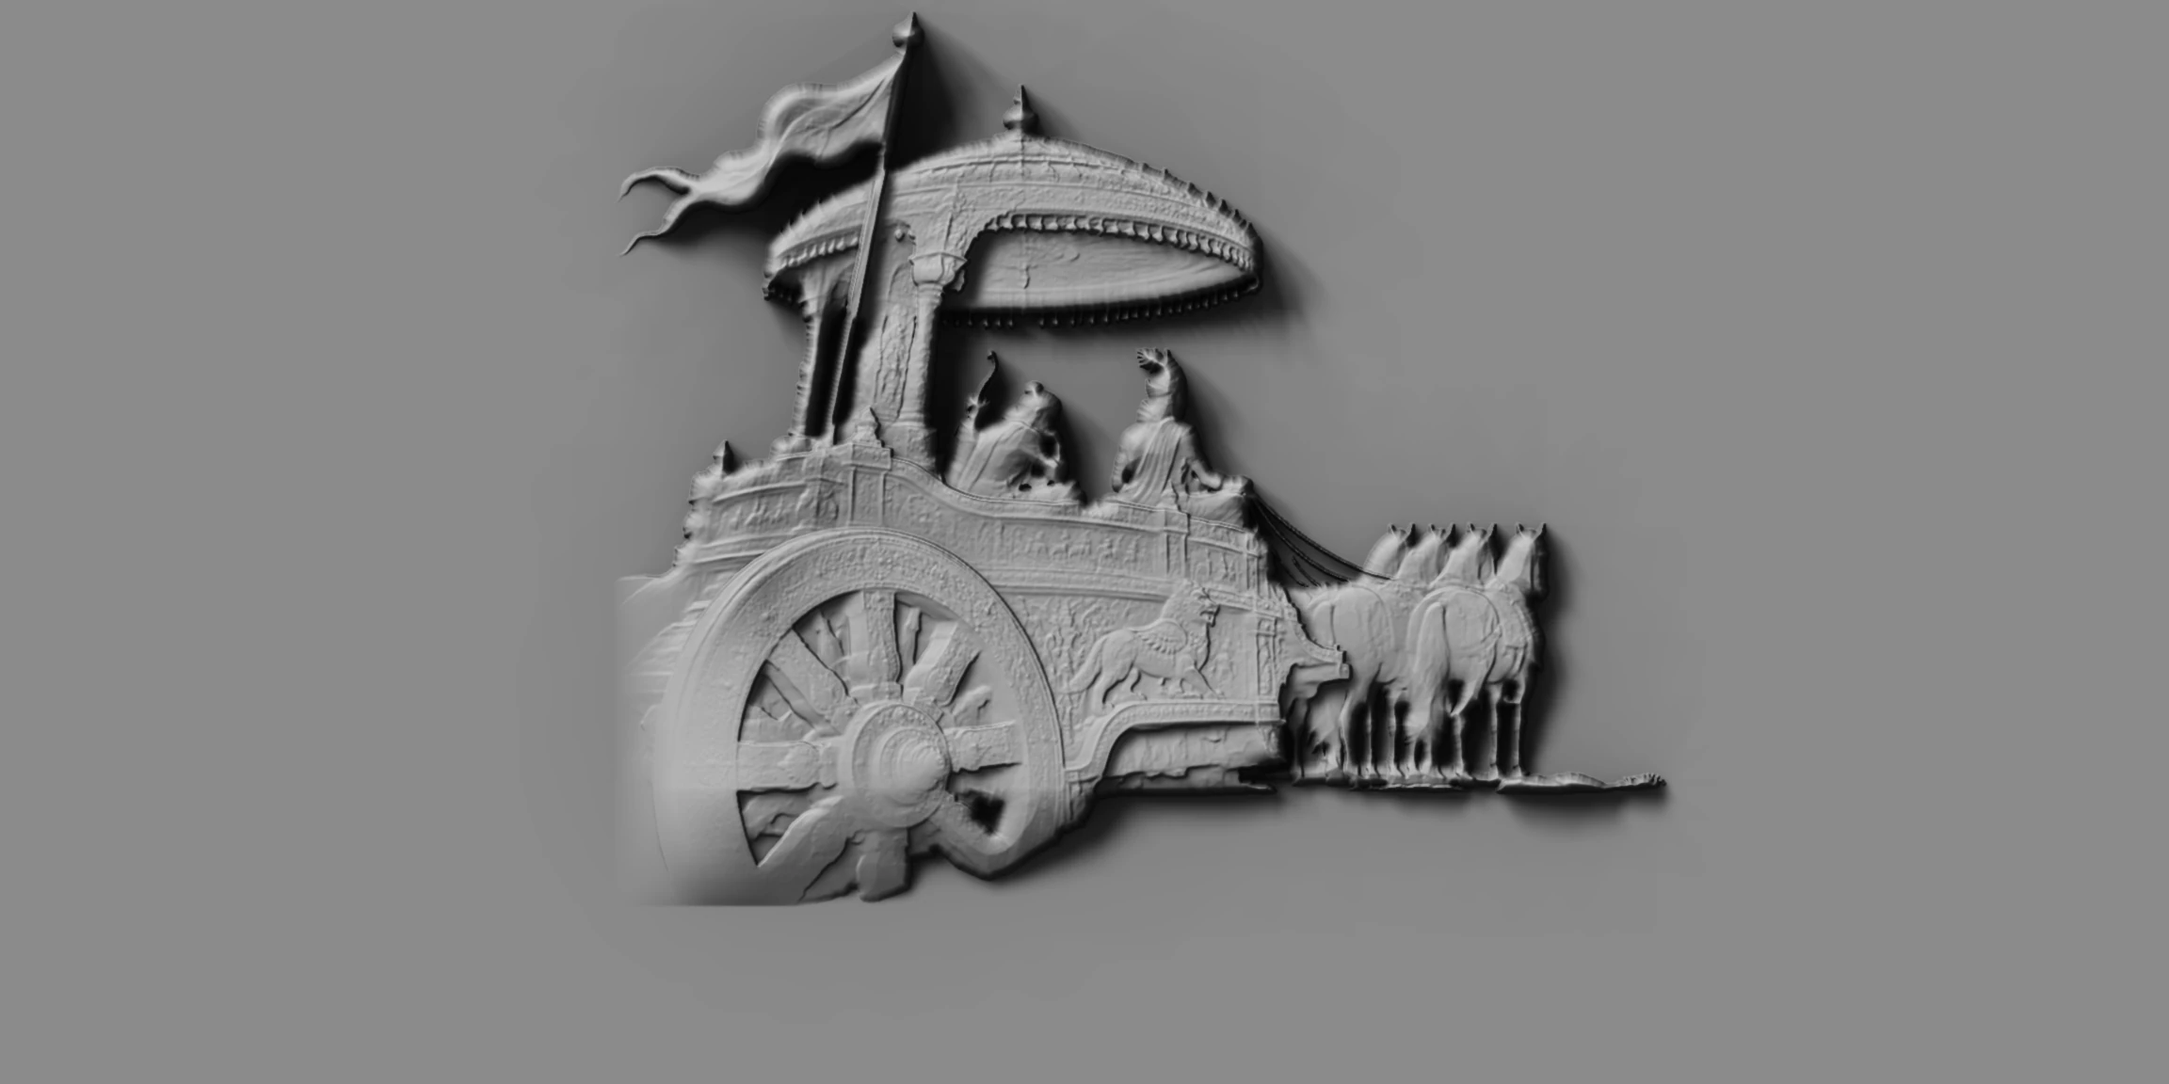
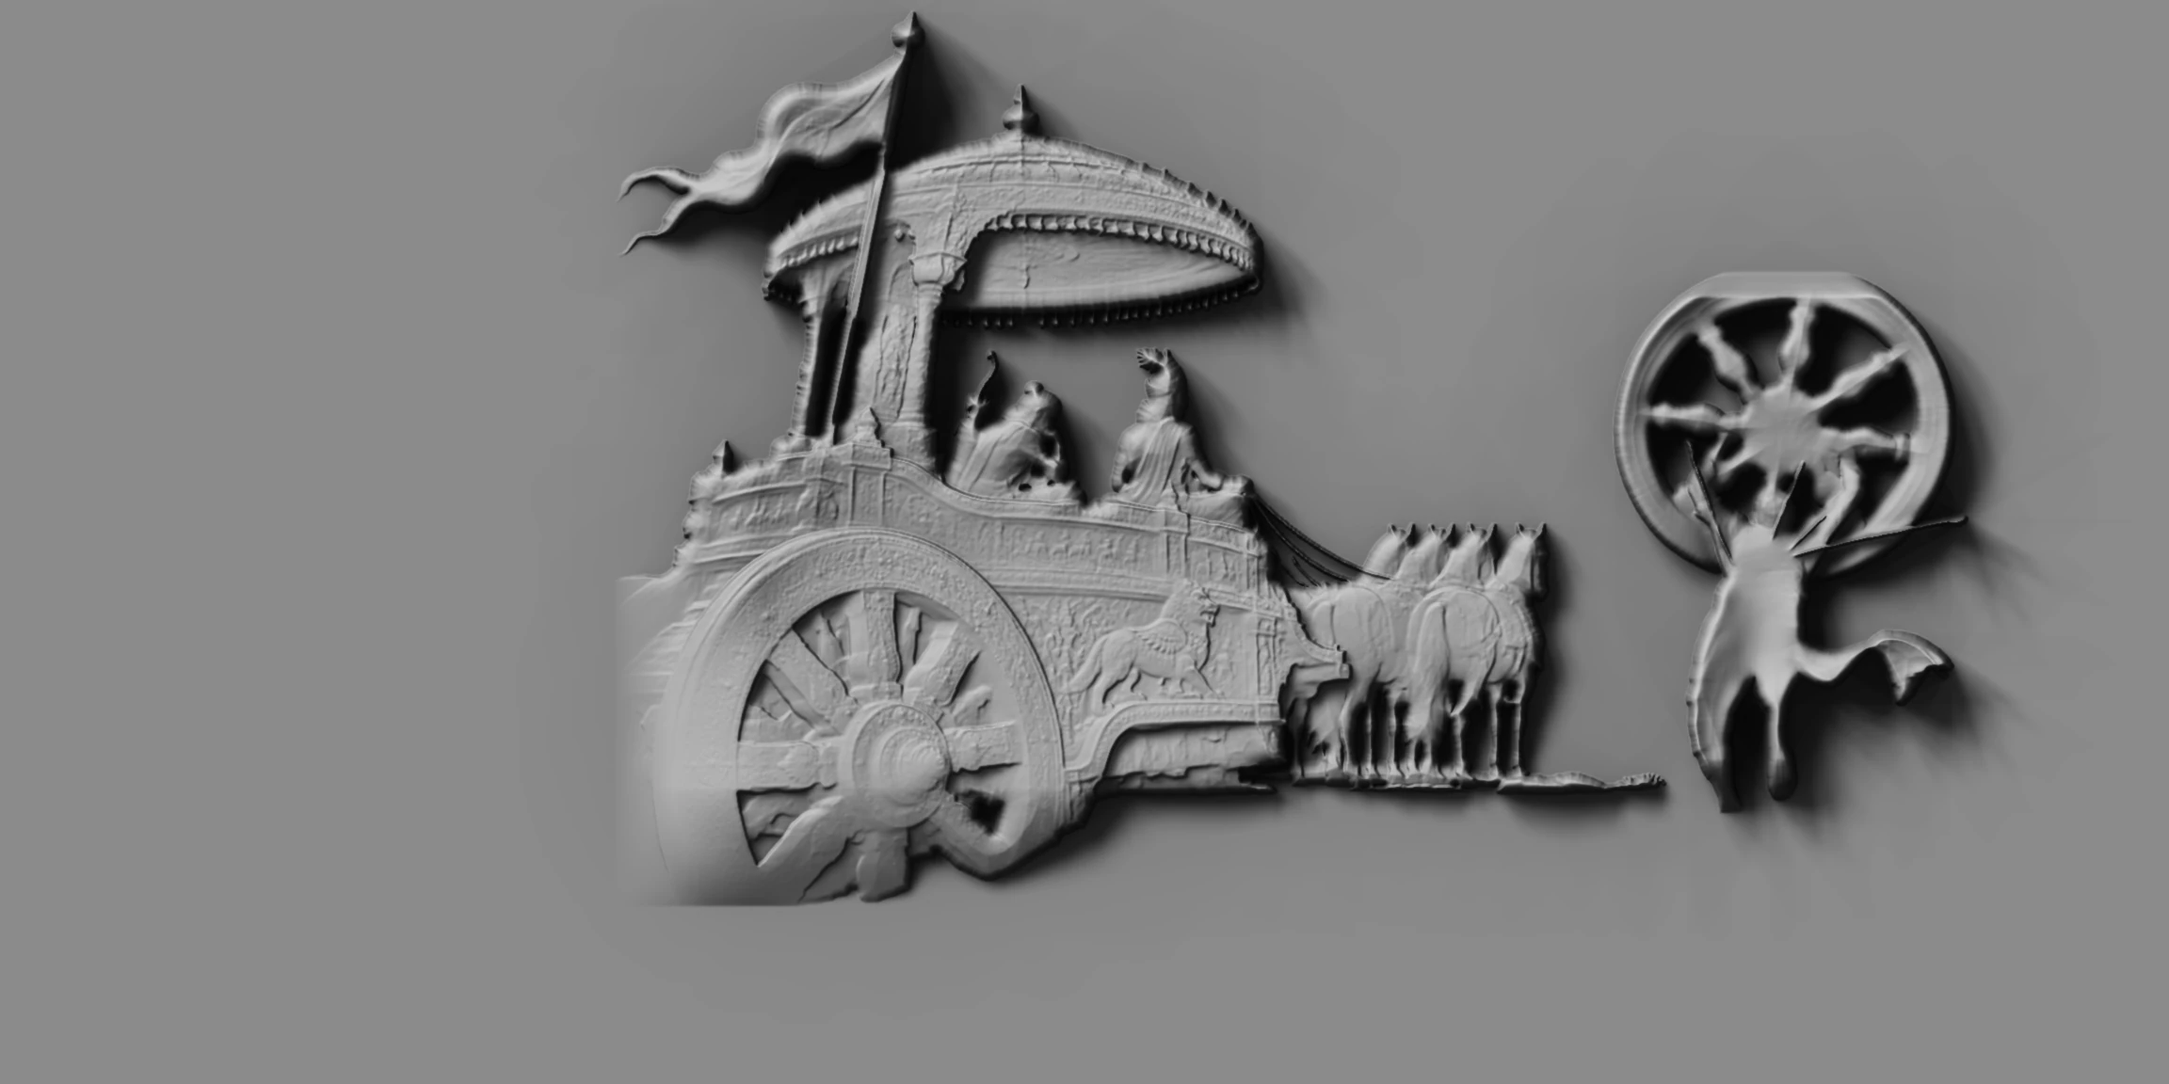
Add a second relief element from supplied footage; manifest-driven wall
The relief build now reads scripts/relief/elements.json and composes any
number of sculptures onto the wall. Depth maps are stored as 16-bit PNGs in
docs/relief-sources so the wall rebuilds without the depth model. Adds the
wheel-bearer beside the chariot. Handoff records the owner's decisions on
footage use and image-generation access.

Claude-Session: https://claude.ai/code/session_01M2PHidNBjDG1gMyYGSp28o

Changed region(s): [[0.75, 0.25, 0.9375, 0.7812]]

diff --git a/scripts/relief/build_relief.py b/scripts/relief/build_relief.py
@@ -1,7 +1,9 @@
-"""Turn an estimated depth map of the original Kurukṣetra artwork into the
-bas-relief data the opening wall renders.
+"""Turn estimated depth maps into the bas-relief data the opening wall renders.
 
-Usage: python3 scripts/relief/build_relief.py DEPTH.npy ARTWORK.png OUT_DIR [PREVIEW.png]
+Usage: python3 scripts/relief/build_relief.py scripts/relief/elements.json OUT_DIR [PREVIEW.png]
+
+The manifest lists each sculpture: its 16-bit depth map, a luminance image for
+fine carving, how to separate it from its scene, and where it sits on the wall.
 
 Writes into OUT_DIR:
   kurukshetra-height.png   R,G = 16-bit height (hi, lo), half resolution
@@ -9,8 +11,8 @@ Writes into OUT_DIR:
   plaster.webp            tileable mineral texture (G is sampled)
   noise.png               tileable smooth noise used by the reveal field
 
-Everything is derived from this project's own generated artwork. No reference
-site model, texture or film frame is used.
+Sources are the project's generated artwork and frames from footage the
+project owner supplied. No reference-site model or texture is used.
 """
 
 import sys
@@ -18,10 +20,15 @@ import numpy as np
 import cv2
 from PIL import Image
 
-depth_path, art_path, out_dir = sys.argv[1:4]
-preview_path = sys.argv[4] if len(sys.argv) > 4 else None
+import json
+import os
 
-W, H = 2304, 1152  # wall canvas, 2:1
+manifest_path, out_dir = sys.argv[1:3]
+preview_path = sys.argv[3] if len(sys.argv) > 3 else None
+manifest = json.load(open(manifest_path))
+root = os.path.dirname(os.path.dirname(os.path.dirname(os.path.abspath(manifest_path))))
+
+W, H = manifest["wall"]  # wall canvas, 2:1
 LIGHT = np.array([-0.55, 0.62])  # direction toward the light in wall space (x right, y up)
 LIGHT /= np.linalg.norm(LIGHT)
 
@@ -30,68 +37,87 @@ def blur(a, s):
     return cv2.GaussianBlur(a, (0, 0), s, borderType=cv2.BORDER_REFLECT)
 
 
-# --- 1. subject separation -------------------------------------------------
-d = np.load(depth_path).astype(np.float32)
-d = np.clip(d, 0, None)
-h0, w0 = d.shape
-art = np.asarray(Image.open(art_path).convert("L"), np.float32) / 255
+def sculpt(spec):
+    """One element: separate the subject from its scene and model it as relief."""
+    # --- subject separation
+    d = cv2.imread(os.path.join(root, spec["depth"]), cv2.IMREAD_UNCHANGED).astype(np.float32)
+    d = d / d.max() * 400
+    h0, w0 = d.shape
+    art = Image.open(os.path.join(root, spec["luma"])).convert("L").resize((w0, h0), Image.LANCZOS)
+    art = np.asarray(art, np.float32) / 255
+    if spec["separation"] == "ground":
+        # The ground plane's inverse depth grows towards the bottom of the
+        # frame. Estimate it per row from the right-hand fifth, where only
+        # terrain is visible, then keep what stands clearly in front of it.
+        ground_row = np.median(d[:, int(w0 * 0.80) :], axis=1)
+        ground_row = np.maximum.accumulate(blur(ground_row[:, None], 9)[:, 0])
+        ground = ground_row[:, None] * np.ones((1, w0), np.float32)
+        mask = np.clip((d - ground * 1.06 - 16) / 14, 0, 1)
+    else:
+        # A figure against open sky: everything nearer than the haze.
+        level = spec["threshold"] * 400
+        mask = np.clip((d - level) / 14, 0, 1)
+    # Drop small disconnected islands (distant banners, debris, terrain bumps).
+    n, labels, stats, _ = cv2.connectedComponentsWithStats((mask > 0.5).astype(np.uint8), 8)
+    keep = np.zeros_like(mask)
+    largest = max(stats[i, cv2.CC_STAT_AREA] for i in range(1, n))
+    floor = 2500 if spec["separation"] == "ground" else largest * 0.5
+    for i in range(1, n):
+        if stats[i, cv2.CC_STAT_AREA] >= floor:
+            keep[labels == i] = 1
+    mask = mask * cv2.dilate(keep, np.ones((5, 5), np.uint8))
+    # Let the sculpture sink back into the wall where the source frame cuts
+    # it, instead of ending on a hard edge.
+    yy = np.linspace(0, 1, h0, dtype=np.float32)[:, None]
+    start, span = spec["sink"]["bottom"]
+    sink = 1 - np.clip((yy - start) / span, 0, 1) ** 1.5
+    if spec["sink"].get("top", 0) > 0:
+        top = np.clip(yy / spec["sink"]["top"], 0, 1)
+        sink = sink * top * top * (3 - 2 * top)
+    if spec["sink"]["left"] > 0:
+        xx = np.linspace(0, 1, w0, dtype=np.float32)[None, :]
+        left = np.clip((xx - 0.005) / spec["sink"]["left"], 0, 1)
+        sink = sink * left * left * (3 - 2 * left)
 
-# The ground plane's inverse depth grows towards the bottom of the frame.
-# Estimate it per row from the right-hand third, where only terrain is visible,
-# then keep what stands clearly in front of that plane.
-ground_row = np.median(d[:, int(w0 * 0.80) :], axis=1)
-ground_row = np.maximum.accumulate(blur(ground_row[:, None], 9)[:, 0])
-ground = ground_row[:, None] * np.ones((1, w0), np.float32)
-excess = d - ground * 1.06 - 16
-mask = np.clip(excess / 14, 0, 1)
-# Drop small disconnected islands (distant banners, terrain bumps).
-n, labels, stats, _ = cv2.connectedComponentsWithStats((mask > 0.5).astype(np.uint8), 8)
-keep = np.zeros_like(mask)
-for i in range(1, n):
-    if stats[i, cv2.CC_STAT_AREA] > 2500:
-        keep[labels == i] = 1
-mask = mask * cv2.dilate(keep, np.ones((5, 5), np.uint8))
-# Let the sculpture sink back into the wall along the bottom edge instead of
-# ending on a hard cut where the chariot meets the terrain.
-yy = np.linspace(0, 1, h0, dtype=np.float32)[:, None]
-sink = 1 - np.clip((yy - 0.86) / 0.13, 0, 1) ** 1.5
-xx = np.linspace(0, 1, w0, dtype=np.float32)[None, :]
-left = np.clip((xx - 0.005) / 0.11, 0, 1)
-sink = sink * left * left * (3 - 2 * left)
+    # --- bas-relief compression
+    # Relative depth keeps the big forms; local detail is amplified so
+    # carving reads at shallow depth (the classic bas-relief trade).
+    unit = 1024.0 / h0  # filter sizes were tuned on a 1024px-tall source
+    dn = d / np.percentile(d[mask > 0.5], 99.5)
+    low = blur(dn, 22 / unit)
+    mid = blur(dn, 5 / unit) - low
+    fine = dn - blur(dn, 5 / unit)
+    lum_detail = blur(art, 1.0) - blur(art, 5 / unit)
+    # Forms are inflated from their silhouettes so they turn away from the
+    # viewer at the rim like modelled plaster, not a flat plate.
+    solid = (mask > 0.5).astype(np.uint8)
+    inside_dist = cv2.distanceTransform(solid, cv2.DIST_L2, 5) * unit
+    pillow = np.sqrt(np.clip(1 - (1 - np.clip(inside_dist / 64.0, 0, 1)) ** 2, 0, 1))
+    rim = np.sqrt(np.clip(1 - (1 - np.clip(inside_dist / 9.0, 0, 1)) ** 2, 0, 1))
+    # Big volumes come from the scene's own depth at two scales, so wheel,
+    # canopy, riders and horses each swell as separate bodies.
+    body = blur(dn, 9 / unit) - blur(dn, 60 / unit)
+    form = np.clip(low, 0, 1.1) ** 0.75
+    height = (0.10 + 0.34 * pillow) * rim + rim * (0.50 * form + 1.5 * np.clip(body, -0.2, 0.4))
+    height += rim**0.5 * (2.0 * mid + 2.6 * fine + 0.10 * lum_detail)
+    soft = blur(mask, 1.2)
+    return np.clip(height, 0, None) * np.clip(soft * 1.3, 0, 1) * sink
 
-# --- 2. bas-relief compression ---------------------------------------------
-# Relative depth keeps the big forms; local detail is amplified so carving
-# reads at shallow depth (the classic bas-relief trade).
-dn = d / np.percentile(d[mask > 0.5], 99.5)
-low = blur(dn, 22)
-mid = blur(dn, 5) - low
-fine = dn - blur(dn, 5)
-lum_detail = blur(art, 1.0) - blur(art, 5)
-# Forms are inflated from their silhouettes so they turn away from the viewer
-# at the rim like modelled plaster, instead of standing up as a flat plate.
-solid = (mask > 0.5).astype(np.uint8)
-inside_dist = cv2.distanceTransform(solid, cv2.DIST_L2, 5)
-pillow = np.sqrt(np.clip(1 - (1 - np.clip(inside_dist / 64.0, 0, 1)) ** 2, 0, 1))
-rim = np.sqrt(np.clip(1 - (1 - np.clip(inside_dist / 9.0, 0, 1)) ** 2, 0, 1))
-# Big volumes come from the scene's own depth at two scales, so the wheel,
-# canopy, riders and horses each swell as separate bodies.
-body = blur(dn, 9) - blur(dn, 60)
-form = np.clip(low, 0, 1.1) ** 0.75
-height = (0.10 + 0.34 * pillow) * rim + rim * (0.50 * form + 1.5 * np.clip(body, -0.2, 0.4))
-height += rim**0.5 * (2.0 * mid + 2.6 * fine + 0.10 * lum_detail)
-soft = blur(mask, 1.2)
-height = np.clip(height, 0, None) * np.clip(soft * 1.3, 0, 1) * sink
 
-# --- 3. place on the wall --------------------------------------------------
-scale = 0.84 * H / h0
-sw, sh = int(round(w0 * scale)), int(round(h0 * scale))
-placed = cv2.resize(height, (sw, sh), interpolation=cv2.INTER_CUBIC)
+# --- place every element on the wall -----------------------------------------
 wall = np.zeros((H, W), np.float32)
-ox = int(W * 0.50 - sw * 0.35)
-oy = int(H * 0.005)
-x0, y0 = max(ox, 0), max(oy, 0)
-x1, y1 = min(ox + sw, W), min(oy + sh, H)
-wall[y0:y1, x0:x1] = placed[y0 - oy : y1 - oy, x0 - ox : x1 - ox]
+for spec in manifest["elements"]:
+    height = sculpt(spec)
+    h0, w0 = height.shape
+    scale = spec["height"] * H / h0
+    sw, sh = int(round(w0 * scale)), int(round(h0 * scale))
+    interpolation = cv2.INTER_CUBIC if scale > 1 else cv2.INTER_AREA
+    placed = cv2.resize(height / height.max() * spec["gain"], (sw, sh), interpolation=interpolation)
+    ox = int(W * spec["anchor"][0] - sw * spec["pivot"][0])
+    oy = int(H * spec["anchor"][1] - sh * spec["pivot"][1])
+    x0, y0 = max(ox, 0), max(oy, 0)
+    x1, y1 = min(ox + sw, W), min(oy + sh, H)
+    wall[y0:y1, x0:x1] = np.maximum(wall[y0:y1, x0:x1], placed[y0 - oy : y1 - oy, x0 - ox : x1 - ox])
 wall = np.clip(blur(wall, 0.7), 0, None)
 wall /= wall.max()
 
@@ -101,7 +127,7 @@ wall /= wall.max()
 # shadow and sky occlusion; the shader cross-fades those stages as the field
 # raises the geometry. Values are in the wall's tone space: flat plaster = REST.
 REST = 0.54504
-DEPTH_TEXELS = float(sys.argv[5]) if len(sys.argv) > 5 else 0.9 / 16.08 * W
+DEPTH_TEXELS = 0.9 / 16.08 * W
 STEPS = 46
 STEP = 2.0
 

diff --git a/HANDOFF.md b/HANDOFF.md
@@ -9,7 +9,9 @@ Build an immersive Gītā experience **one milestone at a time**, matching the c
 - Go back to the reference and compare after every piece of work. Do not judge by eye from memory.
 - **Do not invent extras.** The reference has no pause-motion control, no menu icon, no eyebrow or subtitle in the opening; those were removed. Add nothing the reference does not have unless the content needs it.
 - The reference's public code may be read to learn mechanisms and values. Do not ship its assets, models, textures, fonts or compiled code.
-- Supplied film footage guides art direction. Production imagery must carry no captions, credits or lettering.
+- **The user decided the supplied film footage may be used directly** as source material (it is their project and their call; do not re-argue it). Remove captions, credits and lettering from anything used.
+- The user wants a partner who guides: when something is blocked, say the way around it and keep building. Never just stop.
+- Image generation: no ChatGPT or Gemini access exists in a cloud session. The user declined API keys and prefers browser logins. Best route is running Claude Code locally with the Claude in Chrome extension; a Browser Use Cloud sign-in was offered as the cloud alternative and was not completed in this session.
 
 Do not republish or reconfigure the cloud environment.
 
@@ -17,7 +19,7 @@ Do not republish or reconfigure the cloud environment.
 
 Milestone 02: the opening wall rebuilt on the reference's architecture. Still a single page; no chapters, reader, audio or loader.
 
-- **Sculpture.** `scripts/relief/estimate_depth.py` runs Depth Anything V2 Large (ONNX, CPU) on the project's own artwork `docs/artwork/kurukshetra-original.png`. `scripts/relief/build_relief.py` separates chariot, riders and horses from terrain, compresses and inflates the forms into a bas-relief height field, places it on a 2304×1152 wall, and **bakes lighting offline at five extrusion depths** (20–100%): soft key light, cast shadow, sky occlusion, bounce. Outputs live in `public/relief/` (about 700 KB total).
+- **Sculpture.** Two elements so far, listed in `scripts/relief/elements.json`: the chariot (from the project's generated artwork) and a warrior holding a chariot wheel aloft (from the supplied film clip at 30.2 s). `scripts/relief/estimate_depth.py` runs Depth Anything V2 Large (ONNX, CPU); 16-bit depth maps are kept in `docs/relief-sources/` so the wall rebuilds without the model. `scripts/relief/build_relief.py` separates each subject from its scene, compresses and inflates the forms into a bas-relief height field, places it on a 2304×1152 wall, and **bakes lighting offline at five extrusion depths** (20–100%): soft key light, cast shadow, sky occlusion, bounce. Outputs live in `public/relief/` (about 700 KB total).
 - **Reveal field.** `src/relief.ts` keeps a 256×256 RGBA ping-pong field: R/G velocity, B nonlinear speed, A coverage. Constants and stamp/decay maths follow the reference's public shader: falloff 0.38×0.5, dissipation 0.953 per 16 ms step, pointer ease 0.4, velocity ease 0.1 moving / 0.04 resting, noise stamp 0.15 + 0.85, automatic input ×3 with coverage = speed. Automatic path: 1–3 segments of 0.7–1.0 s, then a 1–3 s pause.
 - **Wall shader.** Vertex depth = height × mix(0.05, 1, avg(B, A)). Fragment samples the field at twice the strength and cross-fades the five baked stages over 0.2 intervals, starting from the constant 0.54504; then plaster texture, screen wash, `tone × 0.6 + 0.4`. Camera: perspective, fov 30, distance 15.
 - **Micro-details from the user's real-GPU recording:** faint iridescent tint on shadowed rims while plaster moves (an approximation, see gaps), and a 4px dot trailing the pointer.
@@ -36,7 +38,7 @@ Milestone 02: the opening wall rebuilt on the reference's architecture. Still a 
 ## Known gaps against the reference — be honest about these
 
 1. **Sculpture quality.** The reference is a hand-sculpted high-relief model: thick rounded volumes, undercuts, overlapping birds, flowers and vines across the whole wall. Ours is one chariot derived from a depth estimate of a 1536×1024 image: finer and flatter, with softer anatomy. This is the largest gap. See the user's supplied still (dark dramatic render of the studio's sculpture) for the target feel.
-2. **One element.** The reference wall carries many elements over several screen heights and recycles them on scroll.
+2. **Two elements.** The reference wall carries many elements over several screen heights and recycles them on scroll. The wheel-bearer is soft because its film frame is dark and motion-blurred.
 3. **Iridescence is approximate.** The reference runs a separate fluid simulation and masks by fresnel and bake shadow range. Ours tints by surface direction where the speed channel is active.
 4. **Scroll.** The reference uses virtual scroll, reprojects the field, deforms the wall with scroll speed and has a fast-scroll mode. Ours scrolls natively and the wall leaves with the hero.
 5. **After the opening.** The reference continues with a large statement whose text is occluded by raised sculpture (text rendered in WebGL), a film window, and a centred statement. Ours still has the milestone-01 sections.
@@ -46,7 +48,7 @@ Milestone 02: the opening wall rebuilt on the reference's architecture. Still a 
 
 ## Next work, in order
 
-1. Raise sculpture quality: thicker volumes, more elements (horses, wheel, banner, lotus, conch, arrows) composed across the wall. Best route is a real 3D model (image-to-3D generation or sculpting) rendered to height and bakes by the existing pipeline; the pipeline accepts any height field.
+1. Raise sculpture quality and add elements across the wall. Adding one is: pick a frame or image, run `estimate_depth.py`, save a 16-bit depth PNG and a luminance PNG into `docs/relief-sources/`, add an entry to `elements.json`, rebuild. Sharper sources give sharper sculpture: once image generation is available, generate clean white-plaster sculpture renders of each subject (chariot, horses, wheel-bearer, conch, bow, lotus, banners) and use those instead of dark film frames. A true 3D model rendered to height is better still.
 2. Extend the wall over several screens and add scroll coupling (field reprojection, scroll-speed deformation).
 3. Rebuild the section after the opening on the reference's pattern, including text occluded by the sculpture.
 4. Intro loader; menu transition.
@@ -65,8 +67,8 @@ npm run format:check
 Rebuilding the relief needs Python with numpy, pillow, opencv-python-headless, scipy and onnxruntime, plus the model `onnx-community/depth-anything-v2-large` (`onnx/model.onnx`, 1.3 GB, not committed):
 
 ```sh
-python3 scripts/relief/estimate_depth.py model.onnx docs/artwork/kurukshetra-original.png depth.npy 1526
-python3 scripts/relief/build_relief.py depth.npy docs/artwork/kurukshetra-original.png public/relief preview.png
+python3 scripts/relief/estimate_depth.py model.onnx SOURCE.png depth.npy 1526   # only for a new element
+python3 scripts/relief/build_relief.py scripts/relief/elements.json public/relief preview.png
 ```
 
 The fallback image is `preview.png` resized to 1920×960 WebP.

diff --git a/docs/ASSET_REGISTER.md b/docs/ASSET_REGISTER.md
@@ -80,7 +80,7 @@ The user re-supplied footage as five files under 32 MiB. All were downloaded and
 | R5 | Kalki 2898 AD opening (57.5 s) | Same file as V01 |
 | R6 | Screen Recording 2026-11-13 211601.mp4 (28.8 s) | **Recording of the reference website** on the user's GPU: opening reveal, scroll to statement, film window, centred statement |
 
-R1–R5 are commercial film footage with credits, subtitles and recognisable performers. They are used as art direction only. No frame from them is in the site or the repository. R6 is evidence of reference behaviour; two cropped frames are kept in `docs/reference-study/2026-11-13-b/`.
+R1–R5 are commercial film footage with credits, subtitles and recognisable performers. The project owner decided they may be used as source material, with credits and captions removed. See G03 below for what is used. R6 is evidence of reference behaviour; two cropped frames are kept in `docs/reference-study/2026-11-13-b/`.
 
 The user also supplied a still of the reference studio's sculpture under dark dramatic light (birds, flowers, vines in thick high relief). It sets the target for sculptural volume. Not stored in the repository.
 
@@ -93,3 +93,9 @@ The user also supplied a still of the reference studio's sculpture under dark dr
 - Build: `scripts/relief/build_relief.py`. Outputs in `public/relief/`: `kurukshetra-height.png` (16-bit height in R,G; 1152×576), `kurukshetra-stage1..5.webp` (baked lighting at 20–100% extrusion; 2304×1152), `kurukshetra-fallback.webp`, `plaster.webp` and `noise.png` (procedural, tileable).
 - No reference-site model or texture and no film frame is used. The reference's plaster texture was downloaded only to compare statistics and was not kept.
 - Limits: anatomy and fine form are as good as a depth estimate of a 1536×1024 image allows. Not hand-sculpted.
+
+### G03 — wheel-bearer relief element
+
+- Source: R5 at 30.2 s, cropped to x 700–1420 of the 1920×800 active picture (no credit text inside the crop).
+- Kept in the repository: `docs/relief-sources/wheelbearer-depth.png` (16-bit depth) and `wheelbearer-luma.png` (greyscale crop, used only for fine surface detail). `docs/relief-sources/chariot-depth.png` is the chariot's depth from A01.
+- Placed right of the chariot by `scripts/relief/elements.json`. The figure is soft because the source frame is dark and motion-blurred.
